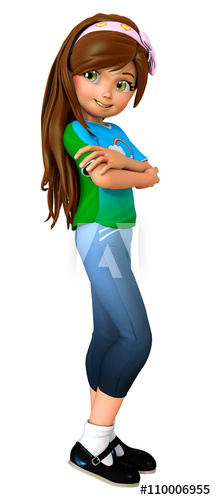
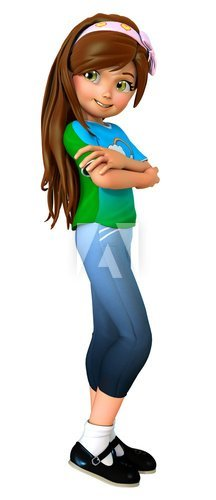
Sadie graphic added and color changes

diff --git a/css/style.css b/css/style.css
@@ -24,8 +24,17 @@ body {
     -webkit-font-smoothing: antialiased;
     -moz-osx-font-smoothing: grayscale;
 }
+.sadie {
+    position: fixed;
+    width: 216px;
+    height: 500px;
+    margin-top: 80px;
+    background-color: #fff;
+    background-image: url('/images/Sadie.jpg');
+}
 .content {
     margin: 0 auto;
+    margin-left: 216px;
     text-align: center;
     display: inline-block;
     padding-top: 5em;
@@ -53,6 +62,10 @@ h2 {
 }
 
 /* Top Navbar */
+.navbar-default {
+    background: #E2F4BE;
+    box-shadow: 0 0 2px #006C00;
+}
 .navbar-nav {
     float: none;
     text-align: center;
@@ -60,6 +73,7 @@ h2 {
 .navbar-default .navbar-brand {
     font-family: 'Luckiest Guy', cursive;
     color: #FFC125;
+    text-shadow: 1px 1px 6px #fff;
 }
 .navbar-default .navbar-brand:hover {
     color: #FF7256;
@@ -69,7 +83,7 @@ h2 {
     display: inline-block;
 }
 .navbar-nav li:hover {
-    box-shadow: 0 0 2px #d3d3d3;
+    box-shadow: 0 0 2px #006C00;
 }
 
 /* Page headings */
@@ -106,7 +120,9 @@ h2 {
     bottom: 0;
     left: 0;
     padding: 1rem;
-    background-color: #efefef;
+   /* background-color: #efefef; */
+    background-color: #E2F4BE;
+    box-shadow: 0 0 2px #006C00;
     text-align: center;
 }
 .footer a {
@@ -369,6 +385,12 @@ table th {
     padding-top: 5px;
 }
 
+/* helpdesk box */
+.helpdeskbox {
+    padding-left: 25px;
+    box-shadow: 0 0 20px 0 rgba(0, 0, 0, 0.2), 0 5px 5px 0 rgba(0, 0, 0, 0.24);
+}
+
 /* media */
 @media (min-width: 0px) { body { padding-top: 60px; } }
 @media (min-width: 0px) { #sidebar { padding-top: 70px; } }
@@ -381,3 +403,15 @@ table th {
 @media (min-width: 761px) { body { padding-top: 60px; } }
 @media (min-width: 761px) { #sidebar { padding-top: 0px; } }
 @media (min-width: 1200px) { body { padding-top: 0; } }
+
+@media (max-width:608px) {
+    .sadie {
+        display: none;
+    }
+    .content {
+        margin-left: 0px;
+    }
+    .title {
+        font-size: 18px;
+    }
+}

diff --git a/app/Console/Commands/SendEmails.php b/app/Console/Commands/SendEmails.php
@@ -1,0 +1,42 @@
+<?php
+
+namespace App\Console\Commands;
+
+use Illuminate\Console\Command;
+
+class SendEmails extends Command
+{
+    /**
+     * The name and signature of the console command.
+     *
+     * @var string
+     */
+    protected $signature = 'emails:send';
+
+    /**
+     * The console command description.
+     *
+     * @var string
+     */
+    protected $description = 'Command description';
+
+    /**
+     * Create a new command instance.
+     *
+     * @return void
+     */
+    public function __construct()
+    {
+        parent::__construct();
+    }
+
+    /**
+     * Execute the console command.
+     *
+     * @return mixed
+     */
+    public function handle()
+    {
+        //
+    }
+}

diff --git a/resources/views/pages/support.blade.php b/resources/views/pages/support.blade.php
@@ -24,7 +24,18 @@
 
     @if(Session::has('page'))
         {!! Session::get('page')->htmlcode !!}
-        <br><a href="helpdesk" class="btn btn-custom" role="button" target="_blank">Open Helpdesk</a>
+        <br>
+
+        <div class="helpdeskbox">
+            <a href="helpdesk" class="btn btn-custom" role="button" target="_blank">Open Helpdesk</a><img src="/images/SadieOnThePhone.jpg" border="0">
+        </div>
+
+        <script>
+            $(document).ready(function(){
+                $('.sadie').hide();
+            });
+        </script>
+
     @endif
 
 @stop

diff --git a/app/Http/Controllers/PagesController.php b/app/Http/Controllers/PagesController.php
@@ -15,6 +15,7 @@ use Redirect;
 use View;
 use Validator;
 use DateTime;
+use Mail;
 
 class PagesController extends Controller
 {
@@ -175,7 +176,11 @@ class PagesController extends Controller
                 return view('pages.verify');
             }
     }
-
+    public function success() {
+        $content = Page::where('slug', '=', 'success')->first();
+        Session::flash('page', $content);
+        return view('pages.success');
+    }
 
     public function login($referid = null) {
         $this->setreferid($referid);

diff --git a/app/Http/Controllers/Admin/MembersController.php b/app/Http/Controllers/Admin/MembersController.php
@@ -83,7 +83,7 @@ class MembersController extends Controller
                      ->setBody($html, 'text/html');
              });
              // end validation email
-             
+
              $member->save();
              Session::flash('message', 'Successfully created new member with UserID ' . $member->userid);
              return Redirect::to('admin/members');

diff --git a/resources/views/layouts/main.blade.php b/resources/views/layouts/main.blade.php
@@ -15,10 +15,13 @@
 
             @include('includes.header')
 
+            <div class="sadie"></div>
+
             <div class="content">
                 <div class="title">
                     @yield('pagetitle')
                 </div>
+
                 <div>
                       @yield('heading')
                       @yield('content')

diff --git a/app/Http/routes.php b/app/Http/routes.php
@@ -50,6 +50,8 @@ Route::get('join/{referid}', 'PagesController@join');
 Route::get('join', 'PagesController@join');
 Route::post('join', 'PagesController@joinpost');
 
+Route::get('success', 'PagesController@success');
+
 Route::get('verify/{code}', 'PagesController@verify');
 Route::get('verify', 'PagesController@verify');
 
